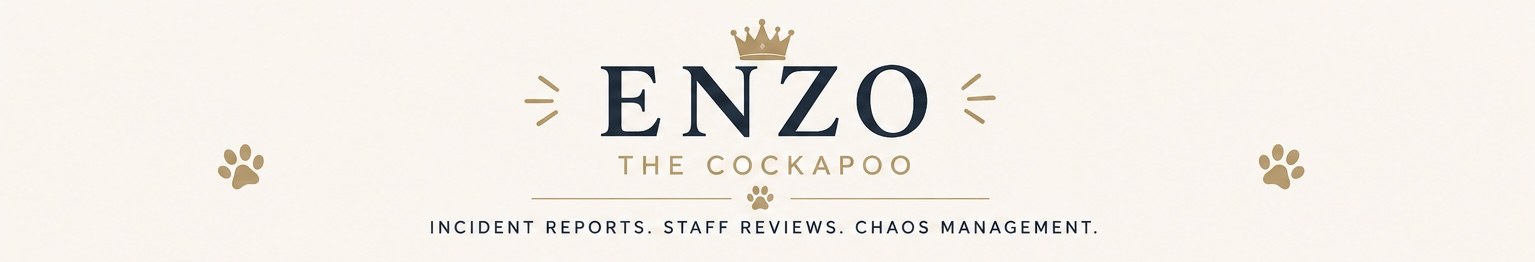
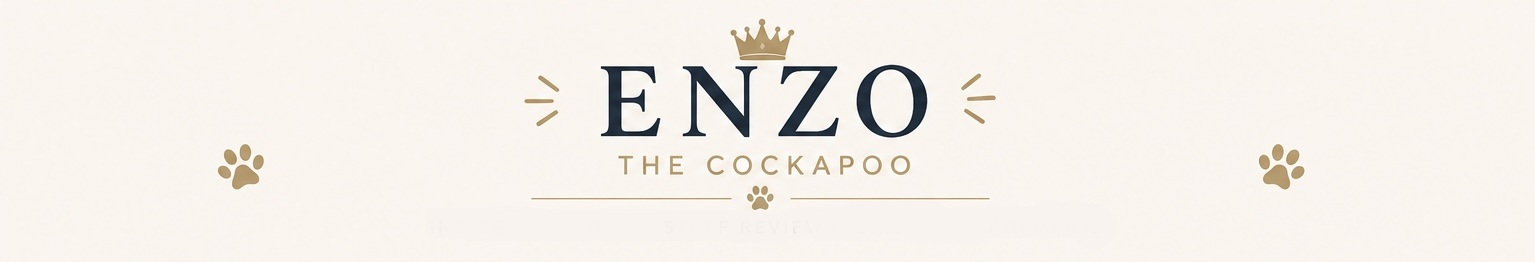
Add homepage content, feature cards and branded footer

Changed region(s): [[0.2756, 0.8244, 0.7042, 0.916]]

diff --git a/css/styles.css b/css/styles.css
@@ -3,6 +3,7 @@ body {
     text-align: center;
     margin: 0;
     font-family: Arial, Helvetica, sans-serif;
+    color: #1D2937;
 }
 
 .hero-banner {
@@ -36,7 +37,7 @@ body {
 
 .hero p {
     font-size: 1.2rem;
-    color: #555;
+    color: #1D2937;
     max-width: 700px;
     margin: 0 auto;
 }
@@ -50,7 +51,7 @@ body {
 }
 
 .social-links a {
-    color: #1f2d3d;
+    color: #1D2937;
     font-size: 2rem;
     text-decoration: none;
     transition: transform 0.2s ease, color 0.2s ease;
@@ -59,4 +60,138 @@ body {
 .social-links a:hover {
     color: #b08d57;
     transform: translateY(-3px);
+}
+
+/* Welcome Section */
+
+.welcome-section {
+    max-width: 720px;
+    margin: 90px auto 60px;
+    padding: 0 20px;
+    text-align: center;
+}
+
+.welcome-section h2 {
+    font-size: 2rem;
+    margin-bottom: 20px;
+    color: #1D2937;
+}
+
+.welcome-section p {
+    font-size: 1.1rem;
+    line-height: 1.8;
+    color: #555;
+    margin-bottom: 20px;
+}
+
+/* Feature Cards */
+
+.features {
+    display: grid;
+    grid-template-columns: repeat(auto-fit, minmax(240px, 1fr));
+    gap: 30px;
+    max-width: 1100px;
+    margin: 80px auto;
+    padding: 0 20px;
+}
+
+.feature-card {
+    background: white;
+    border-radius: 18px;
+    padding: 35px 25px;
+    text-align: center;
+    box-shadow: 0 8px 20px rgba(0,0,0,0.08);
+    transition: transform 0.25s ease,
+                box-shadow 0.25s ease;
+}
+
+.feature-card:hover {
+    transform: translateY(-8px);
+    box-shadow: 0 15px 30px rgba(0,0,0,0.12);
+}
+
+.feature-icon {
+    font-size: 2.3rem;
+    color: #C7A46C;
+    margin-bottom: 20px;
+}
+
+.feature-card h3 {
+    color: #1D2937;
+    margin-bottom: 15px;
+    font-size: 1.4rem;
+}
+
+.feature-card p {
+    line-height: 1.6;
+    margin-bottom: 20px;
+}
+
+.feature-card span {
+    display: inline-block;
+    padding: 8px 18px;
+    border-radius: 50px;
+    background: #f2f2f2;
+    font-size: 0.9rem;
+    font-weight: 600;
+}
+
+/* ---------- Footer ---------- */
+
+.site-footer {
+    margin-top: 140px;
+    padding: 60px 20px;
+    background: #1D2937;
+    color: white;
+    text-align: center;
+}
+
+.site-footer h3 {
+    font-size: 2rem;
+    margin-bottom: 15px;
+    color: white;
+}
+
+.site-footer p {
+    max-width: 700px;
+    margin: 0 auto 25px;
+    line-height: 1.7;
+    color: rgba(255,255,255,0.85);
+}
+
+.footer-divider {
+    width: 80px;
+    height: 2px;
+    background: #C7A46C;
+    margin: 30px auto;
+    border-radius: 2px;
+}
+
+.footer-socials {
+    display: flex;
+    justify-content: center;
+    gap: 30px;
+    margin: 35px 0;
+    font-size: 2rem;
+}
+
+.footer-socials a {
+    color: #C7A46C;
+    transition: 0.3s;
+    text-decoration: none;
+}
+
+.footer-socials a:hover {
+    color: white;
+    transform: translateY(-4px);
+}
+
+.copyright {
+    margin-top: 40px;
+    font-size: 0.9rem;
+    color: rgba(255,255,255,0.6);
+}
+
+.gold-heart {
+    color: #C7A46C;
 }

diff --git a/index.html b/index.html
@@ -52,7 +52,82 @@
         GIPHY
     </a>
 
-</div>  
+</div>
+
+<section class="welcome-section">
+    <h2>Meet Enzo</h2>
+
+    <p>
+        <strong>Enzo Has Notes</strong> is where one very fluffy Cockapoo documents the daily injustices of office life, reviews products, shares workplace "incident reports", and occasionally allows his human to do the typing.
+    </p>
+
+    <p>
+        Whether you found Enzo on YouTube, TikTok, Instagram, Facebook, or somewhere else on the internet, welcome! This is home base—where you'll find product recommendations, favourite toys, behind-the-scenes stories, and everything that doesn't quite fit into a social media post.
+    </p>
+</section>
+
+<section class="features">
+
+    <div class="feature-card">
+        <div class="feature-icon">
+        <i class="fa-solid fa-paw"></i>
+        </div>
+        <h3>Product Reviews</h3>
+        <p>Honest reviews of toys, treats and products Enzo actually uses.</p>
+        
+    </div>
+
+    <div class="feature-card">
+        <div class="feature-icon">
+        <i class="fa-solid fa-video"></i>
+        </div>
+        <h3>Latest Videos</h3>
+        <p>Catch up on Enzo's latest adventures from YouTube and across social media.</p>
+    </div>
+
+    <div class="feature-card">
+        <div class="feature-icon">
+        <i class="fa-solid fa-file-lines"></i>
+        </div>
+        <h3>Incident Reports</h3>
+        <p>Official reports documenting the daily injustices of office life from the CEO himself.</p>
+        
+    </div>
+
+    <div class="feature-card">
+        <div class="feature-icon">
+        <i class="fa-solid fa-star"></i>
+        </div>
+        <h3>Enzo's Picks</h3>
+        <p>Enzo's favourite products, toys, and treats that he recommends to his fans.</p>
+    </div>
+
+</section>
+
+<footer class="site-footer">
+
+    <h3>Enzo Has Notes</h3>
+
+    <p>
+        Professional workplace complaints from one very fluffy household CEO.
+    </p>
+
+    <div class="footer-divider"></div>
+
+    <div class="footer-socials">
+        <a href="https://www.youtube.com/@EnzoHasNotes" target="_blank"><i class="fa-brands fa-youtube"></i></a>
+        <a href="https://www.instagram.com/enzohasnotes" target="_blank"><i class="fa-brands fa-instagram"></i></a>
+        <a href="https://www.tiktok.com/@enzohasnotes" target="_blank"><i class="fa-brands fa-tiktok"></i></a>
+        <a href="https://www.facebook.com/enzohasnotes" target="_blank"><i class="fa-brands fa-facebook"></i></a>
+        <a href="https://x.com/enzohasnotes" target="_blank"><i class="fa-brands fa-x-twitter"></i></a>
+        <a href="https://giphy.com/channel/enzohasnotes" target="_blank">GIPHY</a>
+    </div>
+
+    <p class="copyright">
+    © 2026 Enzo Has Notes. Built with <span class="gold-heart">♥</span> by Enzo's human.
+    </p>
+
+</footer>
 
 </body>
 </html>